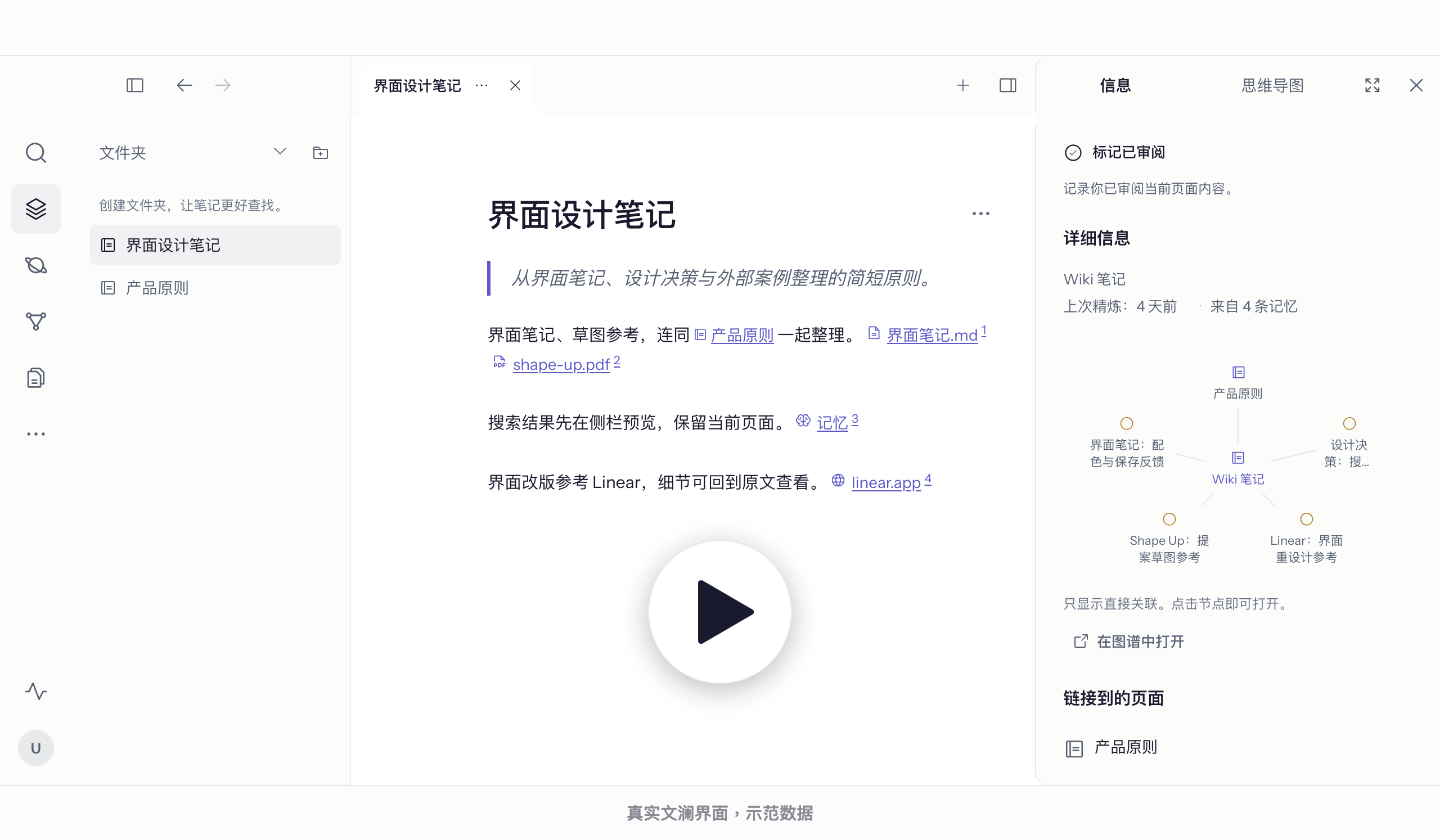
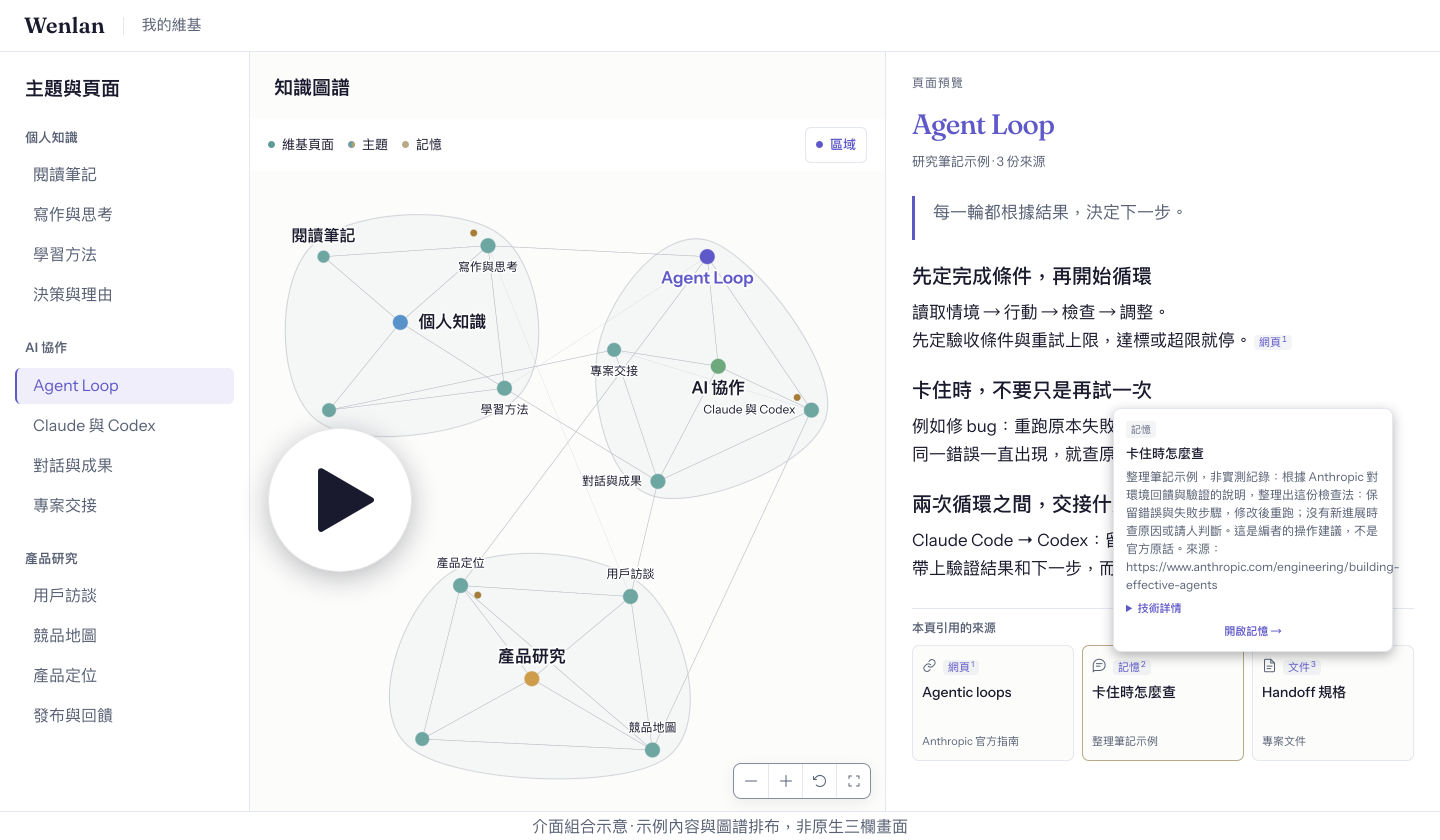
docs(readme): one-line Why points, changelog link instead of What's new, Agent Loop video covers
Why Wenlan keeps the same five points, one line each. What's new moves to
a changelog link under Learn more; the whats-new anchor stays there so old
links still land. The video covers go back to the approved Agent Loop
preview with the memory hover card open. zh-Hans reuses the zh-Hant cover
until its own is generated.

Claude-Session: https://claude.ai/code/session_018iGeuxfuZJHs7sMV7fbdBT

diff --git a/README.es-ES.md b/README.es-ES.md
@@ -1,4 +1,4 @@
-<!-- README_SYNC: source=README.md sha256=24d7a2bfcab534fe15117f7e5d69d61d92768496b9066a8199b589d789659368 -->
+<!-- README_SYNC: source=README.md sha256=d4244e6aa20d8515090c9ea8af99f094f803f73af6862caa223f2480271f3dbc -->
 
 <p align="center">
   <picture>
@@ -43,11 +43,11 @@
 
 ## Por qué Wenlan
 
-- **Tu IA la escribe y la mantiene al día:** la herramienta de IA que ya usas, como Claude Code, Codex o Cursor, convierte tus notas, archivos y chats de IA en páginas y las actualiza después. No hace falta otro modelo.
-- **Te dice lo que no puede respaldar:** cuando una IA guarda una página, Wenlan compara sus citas con las fuentes originales. Una página se rechaza cuando la mayoría de sus citas no coinciden con la fuente, y la IA sabe por qué. Cada cita abre el original.
-- **Marca lo que cambió:** las páginas recuerdan las fuentes, otras páginas y las líneas de código en las que se basan. Cuando cambian, solo se marcan para actualizar las páginas afectadas.
-- **Lo que escribes sigue siendo tuyo:** las páginas que escribiste o editaste quedan en **Ask me first**, así que los cambios de la IA esperan tu visto bueno, y ves qué quita y qué añade cada cambio. Wenlan nunca edita tus notas existentes sin tu permiso, tampoco las de Obsidian.
-- **Trae lo que ya tienes y consérvalo al cambiar de herramienta:** Obsidian, Logseq, carpetas, documentos, enlaces web y exportaciones de chats entran tal como están ([lista completa](#what-can-i-bring-in)). Las páginas son Markdown local y sirven en las herramientas de IA que elijas.
+- **Tu IA la escribe y la mantiene al día:** la herramienta de IA que ya usas convierte tus notas, archivos y chats de IA en páginas, sin otro modelo.
+- **Te dice lo que no puede respaldar:** se rechaza una página cuando la mayoría de sus citas no coinciden con la fuente, y cada cita abre el original.
+- **Marca lo que cambió:** cuando cambia una fuente, una página o una línea de código, solo se marcan las páginas que dependen de ella.
+- **Lo que escribes sigue siendo tuyo:** Wenlan nunca edita tus notas existentes sin tu permiso, y las páginas que escribiste quedan en **Ask me first**.
+- **Trae lo que ya tienes y consérvalo al cambiar de herramienta:** notas, documentos, enlaces y chats entran ([lista completa](#what-can-i-bring-in)) como Markdown local que sirve en las herramientas de IA que elijas.
 
 <a id="quickstart"></a>
 <a id="start-in-30-seconds"></a>
@@ -263,24 +263,6 @@ Sigue haciéndolo. Wenlan se conecta a la misma herramienta de IA y añade las c
 
 Activa el interruptor **Web access** en Settings para que clientes web de IA compatibles, como Claude, ChatGPT o Muse, puedan buscar en toda la biblioteca o en un Espacio elegido mientras el ordenador con Wenlan esté conectado. Al permitir una app eliges solo búsqueda o búsqueda y escritura; una app con escritura también puede añadir, editar y borrar, y las apps de IA pueden pedirte confirmación antes de cada cambio. Esta función es experimental; las consultas y los resultados pasan por un relay. Consulta los [límites de privacidad](docs/PRIVACY.md#pre-release-standalone-wenlan-relay-connector).
 
-<a id="whats-new"></a>
-
-<br>
-
-## Novedades
-
-Desde 0.19:
-
-- **Steep a tu manera:** mantén las páginas al día en modo **On demand** con tu propia herramienta de IA, o en **Automatic** con un modelo local o en la nube que elijas.
-- **Citas comprobadas al guardar:** se rechaza una página cuyas citas en su mayoría no coinciden con sus fuentes, y se revisan los errores de los diagramas Mermaid.
-- **Las páginas siguen aquello en lo que se basan:** otras páginas y líneas de código, aunque las líneas se muevan o el archivo cambie de nombre.
-- **Ask me first:** un solo ajuste **AI changes** para las páginas, y la IA puede sugerir cambios en tus notas de Obsidian que solo se escriben cuando aceptas. Las notas empiezan en **Never**, solo se citan. Cada cambio muestra qué quita y qué añade.
-- **Una wiki para tu código:** `/wenlan wiki` escribe páginas vinculadas a las líneas de código en las que se basan y las propone a tu repositorio como pull request, actualizadas cada día en tu ordenador o en GitHub Actions con tu herramienta de IA, Cursor o GitHub Copilot.
-- **Más cosas que traer:** un enlace pegado se guarda como fuente y se muestra como tarjeta, como vídeo de YouTube reproducible o como la publicación original de X, Threads o Instagram. Los grafos de Logseq, DOCX y las carpetas sincronizadas son importaciones nuevas, y las páginas admiten imágenes y vídeos. Una primera importación grande de una bóveda se puede buscar en minutos, y las herramientas de IA ya encuentran palabras raras en una biblioteca grande.
-- **Más herramientas de IA:** GitHub Copilot, Antigravity, Windsurf, Kiro, OpenCode, Muse Code y Kimi Code se conectan desde **Add a tool** en los ajustes, y las apps de IA web pueden buscar y, con tu permiso, escribir mediante **Web access**.
-
-Todas las versiones están en el [registro de cambios](CHANGELOG.md).
-
 <a id="architecture"></a>
 
 <br>
@@ -327,6 +309,7 @@ En una prueba con 10.000 páginas (páginas generadas, M2 Pro con 16 GB, v0.20.0
 [Método de evaluación y detalles del benchmark](docs/eval/README.md).
 
 <a id="learn-more"></a>
+<a id="whats-new"></a>
 
 <a id="cola-offline-outbox"></a>
 
@@ -340,6 +323,7 @@ En una prueba con 10.000 páginas (páginas generadas, M2 Pro con 16 GB, v0.20.0
 - [Archivos locales, copias y uso sin conexión](docs/setup-and-data.es-ES.md)
 - [Privacidad](docs/PRIVACY.md)
 - [Diagnóstico e incidencias](https://wenlan.app/docs/diagnostics-and-issue-reports)
+- [Novedades de cada versión](CHANGELOG.md)
 - [Índice completo de documentación](docs/README.md)
 
 <br>

diff --git a/README.md b/README.md
@@ -43,11 +43,11 @@
 
 I started Wenlan because my notes, documents, and AI chats were scattered and always changing, and keeping a vault from rotting took constant upkeep. I wanted an AI-native knowledge base that stays useful without the hassle.
 
-- **Your AI writes it and keeps it current:** The AI tool you already use, such as Claude Code, Codex, or Cursor, turns your notes, files, and AI chats into pages and updates them later. No extra model needed.
-- **It tells you what it can't back up:** When an AI saves a page, Wenlan compares its citations with the original sources. A page is refused when most of its citations don't match the source, and the AI is told why. Each citation opens the original.
-- **It flags what changed:** Pages remember the sources, other pages, and code lines they rely on. When those change, only the affected pages are flagged for an update.
-- **What you write stays yours:** Pages you wrote or edited are set to **Ask me first**, so AI changes wait for your OK, and you see what each change removes and adds. Wenlan never edits your existing notes without your OK, Obsidian notes included.
-- **Bring what you have, keep it when you switch tools:** Obsidian, Logseq, folders, documents, web links, and chat exports come in as they are ([full list](#what-can-i-bring-in)). Pages are local Markdown, and the same pages work in the AI tools you pick.
+- **Your AI writes it and keeps it current:** The AI tool you already use turns your notes, files, and AI chats into pages, with no extra model.
+- **It tells you what it can't back up:** A page is refused when most of its citations don't match the source, and each citation opens the original.
+- **It flags what changed:** When a source, page, or code line changes, only the pages that rely on it are flagged.
+- **What you write stays yours:** Wenlan never edits your existing notes without your OK, and pages you wrote are set to **Ask me first**.
+- **Bring what you have, keep it when you switch tools:** Notes, documents, links, and chats come in ([full list](#what-can-i-bring-in)) as local Markdown that works in the AI tools you pick.
 
 <a id="quickstart"></a>
 <a id="start-in-30-seconds"></a>
@@ -262,24 +262,6 @@ Keep doing that. Wenlan connects to the same AI tool and adds the checks a folde
 
 Turn on **Web access** in Settings to let supported web AI clients such as Claude, ChatGPT, or Muse search your library or a chosen Space while your computer is online. When you allow an app, choose search only or search and write; a write app can also add, edit and delete, and AI apps can ask you before each change. This feature is experimental; queries and results pass through a relay. See the [privacy limits](docs/PRIVACY.md#pre-release-standalone-wenlan-relay-connector).
 
-<a id="whats-new"></a>
-
-<br>
-
-## What's new
-
-Since 0.19:
-
-- **Steep, your way:** keep pages current On demand with your own AI tool, or Automatic with a local or cloud model you pick.
-- **Citations checked on save:** a page whose citations mostly don't match their sources is refused, and Mermaid diagrams are checked for mistakes.
-- **Pages follow what they rely on:** other pages and code lines, even when the lines move or the file is renamed.
-- **Ask me first:** one **AI changes** setting for pages, and AI can suggest changes to your Obsidian notes that are written only when you accept. Notes start at **Never**, cited only. Each change shows what it removes and adds.
-- **A wiki for your code:** `/wenlan wiki` writes pages tied to the code lines they rely on and offers them to your repository as a pull request, updated daily on your computer or on GitHub Actions with your AI tool, Cursor, or GitHub Copilot.
-- **More to bring in:** a pasted link is saved as a source and shows as a card, a playable YouTube video, or the original X, Threads, or Instagram post. Logseq graphs, DOCX, and folders kept in sync are new imports, and images and videos can go in pages. A big first vault import is searchable in minutes, and AI tools now find rare words in a large library.
-- **More AI tools:** GitHub Copilot, Antigravity, Windsurf, Kiro, OpenCode, Muse Code, and Kimi Code connect from **Add a tool** in Settings, and web AI apps can search, and with your permission write, through **Web access**.
-
-Every release is in the [changelog](CHANGELOG.md).
-
 <a id="architecture"></a>
 
 <br>
@@ -326,6 +308,7 @@ On a 10,000-page test (generated pages, M2 Pro with 16 GB, v0.20.0), App search 
 [Evaluation method and benchmark details](docs/eval/README.md).
 
 <a id="learn-more"></a>
+<a id="whats-new"></a>
 
 <a id="offline-queue-outbox"></a>
 
@@ -339,6 +322,7 @@ On a 10,000-page test (generated pages, M2 Pro with 16 GB, v0.20.0), App search 
 - [Local files, backups, and offline use](docs/setup-and-data.md)
 - [Privacy](docs/PRIVACY.md)
 - [Doctor and issue reports](https://wenlan.app/docs/diagnostics-and-issue-reports)
+- [What's new in each release](CHANGELOG.md)
 - [Full documentation index](docs/README.md)
 
 <br>
